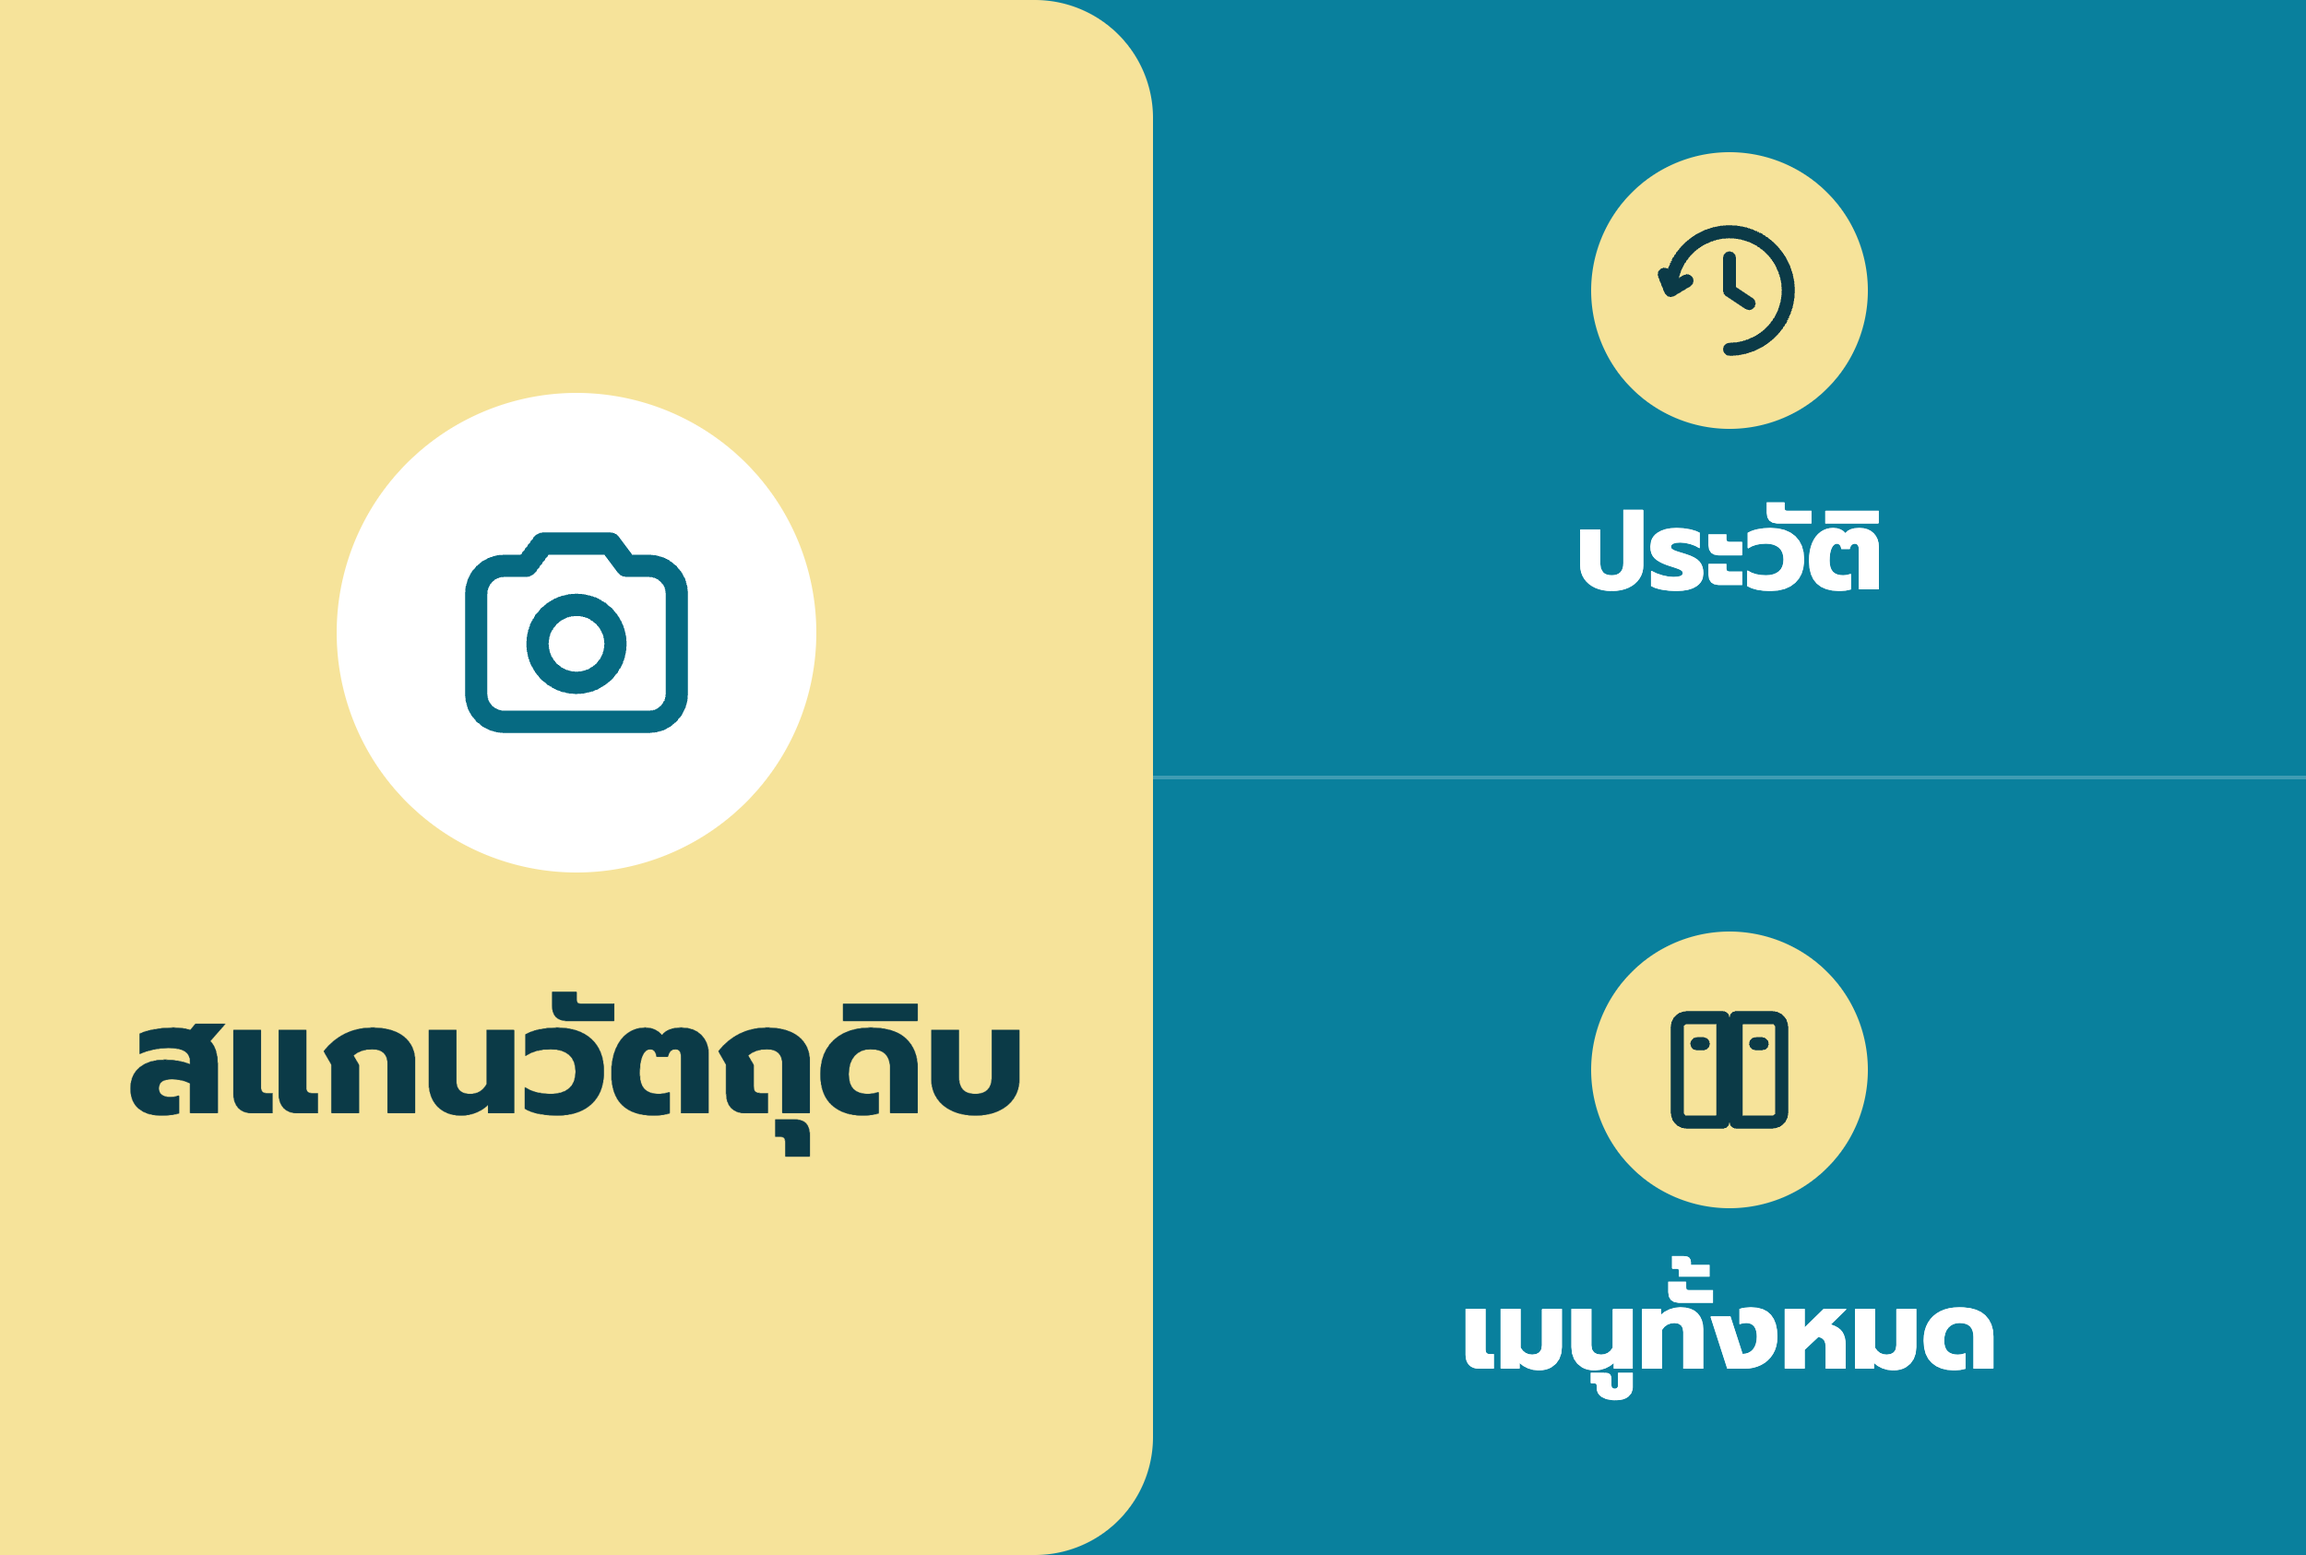
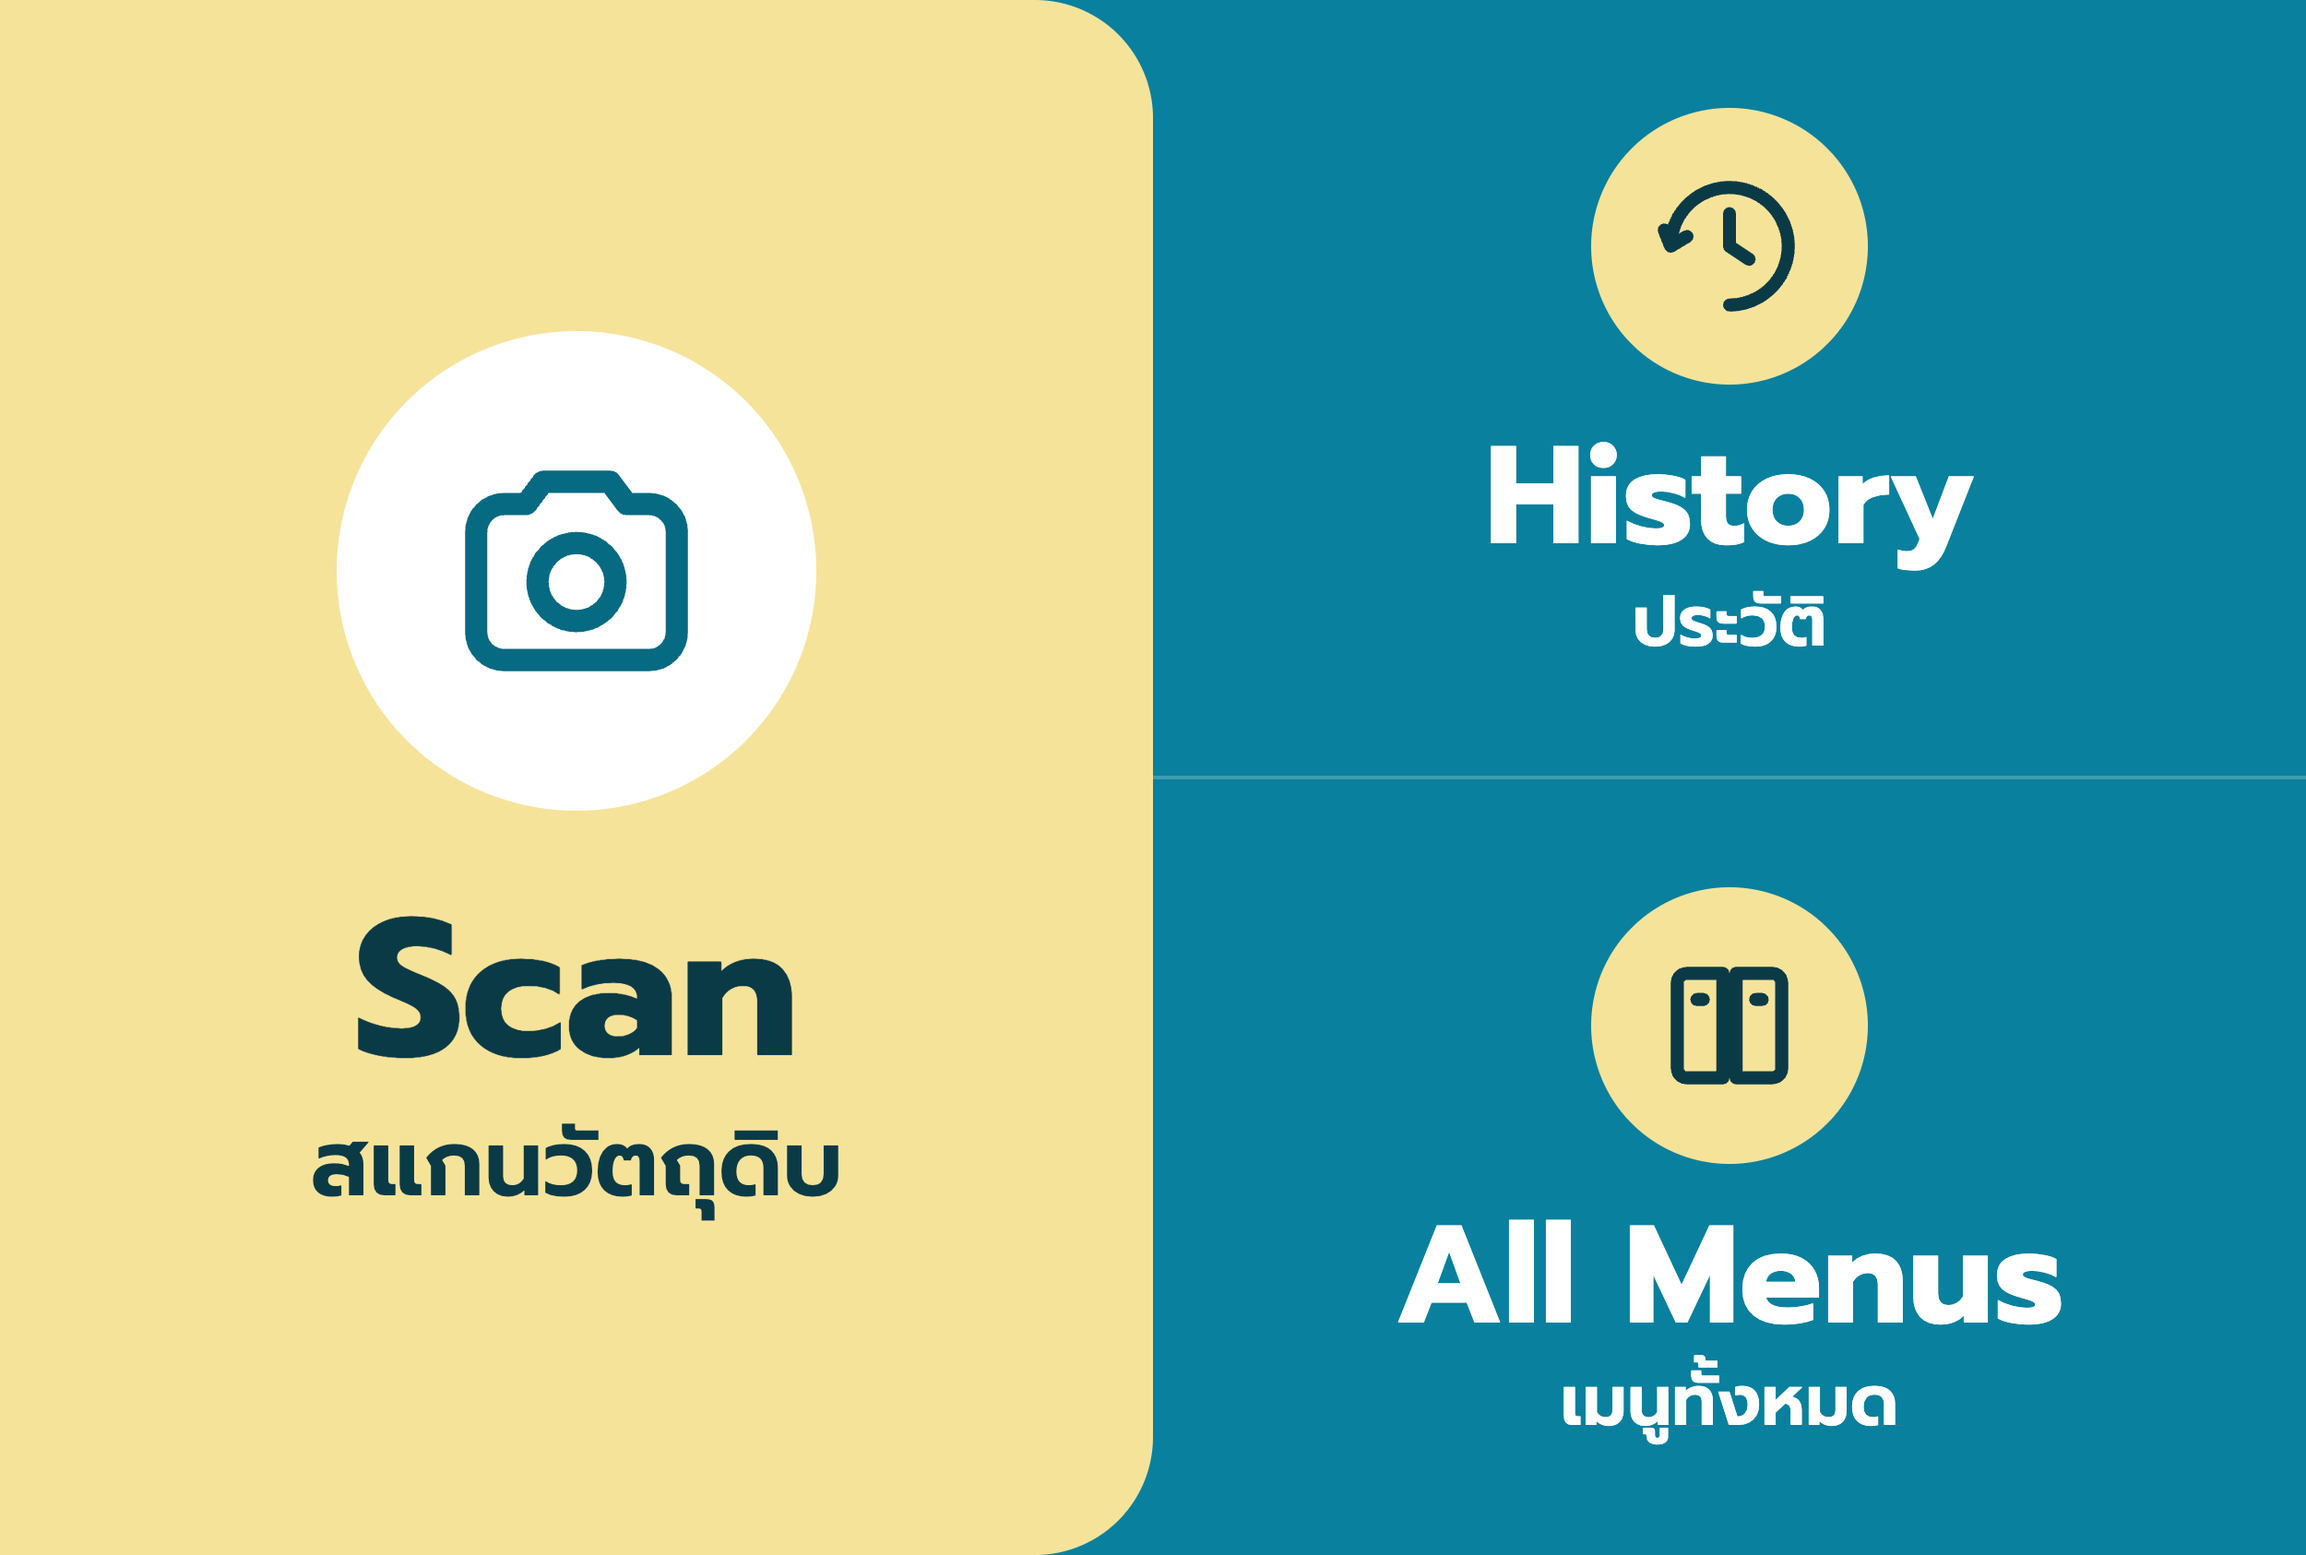
Rich menu: English large, Thai small

diff --git a/design/rich-menu/rich-menu.html b/design/rich-menu/rich-menu.html
@@ -10,32 +10,36 @@
   body { display: flex; font-family: "Prompt", sans-serif; background: #09809d; }
   svg { fill: none; stroke: currentColor; stroke-linecap: round; stroke-linejoin: round; stroke-width: 2; }
   .badge { display: flex; align-items: center; justify-content: center; border-radius: 50%; flex-shrink: 0; }
-  .hero { width: 1250px; display: flex; flex-direction: column; align-items: center; justify-content: center; gap: 96px; background: #f6e39a; color: #0b3a47; border-radius: 0 128px 128px 0; }
+  .hero { width: 1250px; display: flex; flex-direction: column; align-items: center; justify-content: center; gap: 80px; background: #f6e39a; color: #0b3a47; border-radius: 0 128px 128px 0; }
   .hero .badge { width: 520px; height: 520px; background: #fff; color: #066a82; }
   .hero svg { width: 290px; height: 290px; }
-  .hero span { font-size: 168px; font-weight: 700; line-height: 1.3; }
+  .hero .text { display: flex; flex-direction: column; align-items: center; gap: 8px; }
+  .hero b { font-size: 210px; font-weight: 700; line-height: 1.1; }
+  .hero span { font-size: 100px; font-weight: 600; line-height: 1.3; }
   .stack { width: 1250px; display: flex; flex-direction: column; color: #fff; }
-  .row { flex: 1; display: flex; flex-direction: column; align-items: center; justify-content: center; gap: 56px; }
+  .row { flex: 1; display: flex; flex-direction: column; align-items: center; justify-content: center; gap: 40px; }
   .row + .row { border-top: 4px solid rgb(255 255 255 / 0.22); }
   .row .badge { width: 300px; height: 300px; background: #f6e39a; color: #0b3a47; }
   .row svg { width: 170px; height: 170px; }
-  .row span { font-size: 120px; font-weight: 700; line-height: 1.3; }
+  .row .text { display: flex; flex-direction: column; align-items: center; gap: 4px; }
+  .row b { font-size: 150px; font-weight: 700; line-height: 1.1; }
+  .row span { font-size: 76px; font-weight: 600; line-height: 1.3; }
 </style>
 </head>
 <body>
-  <!-- Areas must match rich-menu.json: hero 1250×1686, then two rows 1250×843 each -->
+  <!-- English large, Thai small under it, so a visitor who cannot read Thai can still use it. Areas must match rich-menu.json: hero 1250×1686, then two rows 1250×843 each -->
   <div class="hero">
     <div class="badge"><svg viewBox="0 0 24 24"><path d="M3 8.5A2.5 2.5 0 0 1 5.5 6h2l1.5-2h6l1.5 2h2A2.5 2.5 0 0 1 21 8.5v9a2.5 2.5 0 0 1-2.5 2.5h-13A2.5 2.5 0 0 1 3 17.5zM12 16.5a3.5 3.5 0 1 0 0-7 3.5 3.5 0 0 0 0 7z"/></svg></div>
-    <span>สแกนวัตถุดิบ</span>
+    <div class="text"><b>Scan</b><span>สแกนวัตถุดิบ</span></div>
   </div>
   <div class="stack">
     <div class="row">
       <div class="badge"><svg viewBox="0 0 24 24"><path d="M12 21a9 9 0 1 0-9-9M3 12l-1-2.5M3 12l2.5-1.5M12 7v5l3 2"/></svg></div>
-      <span>ประวัติ</span>
+      <div class="text"><b>History</b><span>ประวัติ</span></div>
     </div>
     <div class="row">
       <div class="badge"><svg viewBox="0 0 24 24"><path d="M4 5.5A1.5 1.5 0 0 1 5.5 4H11v16H5.5A1.5 1.5 0 0 1 4 18.5zM13 4h5.5A1.5 1.5 0 0 1 20 5.5v13a1.5 1.5 0 0 1-1.5 1.5H13zM7 8h1M16 8h1"/></svg></div>
-      <span>เมนูทั้งหมด</span>
+      <div class="text"><b>All Menus</b><span>เมนูทั้งหมด</span></div>
     </div>
   </div>
 </body>

diff --git a/design/rich-menu/README.md b/design/rich-menu/README.md
@@ -9,11 +9,13 @@ The menu at the bottom of the LINE chat. It's a full-height menu (2500×1686): a
   ```
 - `rich-menu.json` holds the tap areas and links, for the API route below. The links already use the LIFF app (`https://liff.line.me/2012226850-YpXIkuN3/scan`, `/history`, `/menus`), so pages open as the LIFF app and can send cards into the chat. The Scan area sends the message "สแกนวัตถุดิบ", and the bot replies with camera buttons, so the photo is taken in the chat. **Upload this menu only after the webhook is switched on** (Use webhook = on); before that, tapping Scan gets no reply. See `docs/line-chat-flow.md`.
 
+Each tile shows the English name large with the Thai name small under it, so a visitor who cannot read Thai can use the menu.
+
 | Tile | x, y | width × height | Opens |
 |---|---|---|---|
-| สแกนวัตถุดิบ | 0, 0 | 1250 × 1686 | `/scan` |
-| ประวัติ | 1250, 0 | 1250 × 843 | `/history` |
-| เมนูทั้งหมด | 1250, 843 | 1250 × 843 | `/menus` |
+| Scan · สแกนวัตถุดิบ | 0, 0 | 1250 × 1686 | `/scan` |
+| History · ประวัติ | 1250, 0 | 1250 × 843 | `/history` |
+| All Menus · เมนูทั้งหมด | 1250, 843 | 1250 × 843 | `/menus` |
 
 ## Set it up
 
